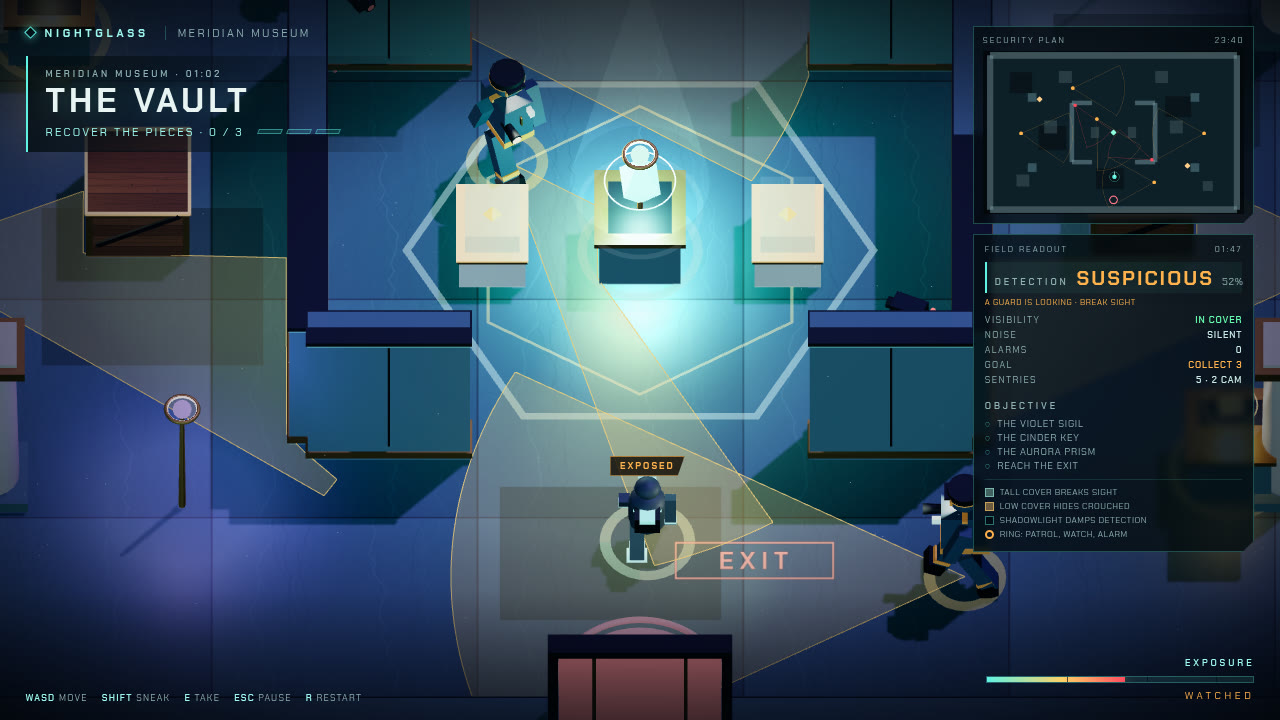
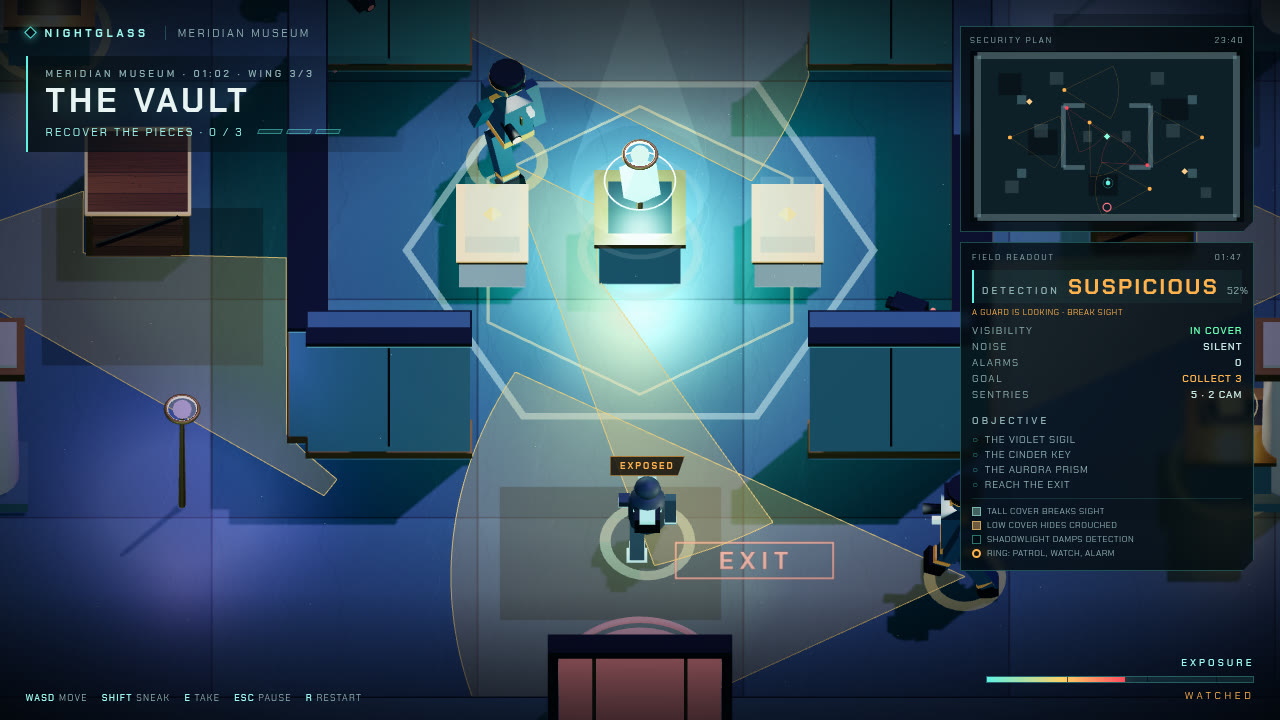
Full readability pass: rings, goal, hint, legend and a larger readout

Changed region(s): [[0.75, 0.0306, 1.0, 0.7944], [0.0312, 0.0917, 0.2188, 0.1222], [0.9375, 0.9167, 0.9688, 0.9472]]

diff --git a/game/styles.css b/game/styles.css
@@ -145,7 +145,7 @@ html, body {
 }
 
 .eyebrow {
-  font-size: 9px;
+  font-size: 9.5px;
   font-weight: 600;
   letter-spacing: 0.32em;
   text-transform: uppercase;
@@ -193,7 +193,7 @@ html, body {
   display: flex;
   flex-direction: column;
   gap: 10px;
-  width: clamp(232px, 22vw, 288px);
+  width: clamp(244px, 23vw, 302px);
 }
 
 .minimap {
@@ -294,7 +294,7 @@ html, body {
 
 .intel-detection .eyebrow { flex: 1; }
 .intel-detection strong {
-  font-size: 20px;
+  font-size: 22px;
   font-weight: 700;
   letter-spacing: 0.1em;
   color: var(--cyan-soft);
@@ -329,7 +329,7 @@ html, body {
   display: flex;
   justify-content: space-between;
   gap: 10px;
-  font-size: 9px;
+  font-size: 10px;
   letter-spacing: 0.16em;
   color: var(--muted);
   text-transform: uppercase;
@@ -349,7 +349,7 @@ html, body {
 .intel-objectives li {
   display: flex;
   gap: 6px;
-  font-size: 9.5px;
+  font-size: 10px;
   letter-spacing: 0.08em;
   color: var(--muted);
   text-transform: uppercase;
